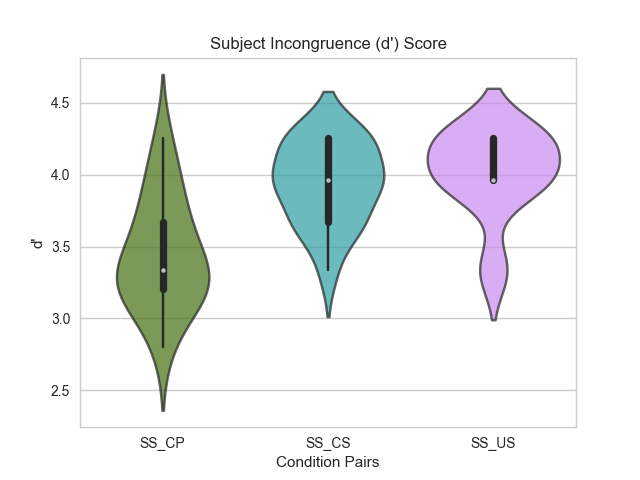
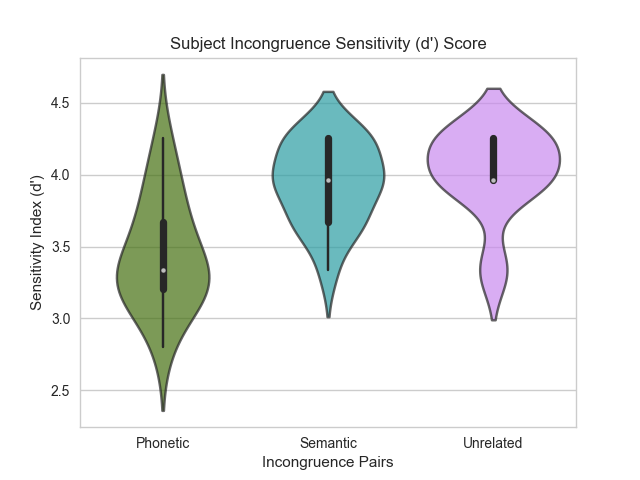
fix axis labels

diff --git a/src/visualisation/healthy_plots.py b/src/visualisation/healthy_plots.py
@@ -9,6 +9,7 @@ from scipy import mean, median
 
 STIMULI = ['SS', 'CP', 'CS', 'US']
 STIMULI_PAIRS = ['SS_CP', 'SS_CS', 'SS_US']
+PAIR_LABELS = ['Phonetic', 'Semantic', 'Unrelated']
 TRIALS_PER_STIM = 30
 
 sns.set()
@@ -80,13 +81,13 @@ def plot_dprime(processed_path, out_path=None):
         data=[subjects_dprimes[pair] for pair in STIMULI_PAIRS],
         palette=palette[1:]
     )
-    plot.set_xticklabels(STIMULI_PAIRS)
-    plot.set_xlabel("Condition Pairs")
-    plot.set_ylabel("d'")
+    plot.set_xticklabels(PAIR_LABELS)
+    plot.set_xlabel("Incongruence Pairs")
+    plot.set_ylabel("Sensitivity Index (d')")
     plt.setp(plot.collections, alpha=.7)
 
     if out_path:
-        plot.set_title("Subject Incongruence (d') Score")
+        plot.set_title("Subject Incongruence Sensitivity (d') Score")
         fig = plot.get_figure()
         fig.savefig(out_path)
     return plot
